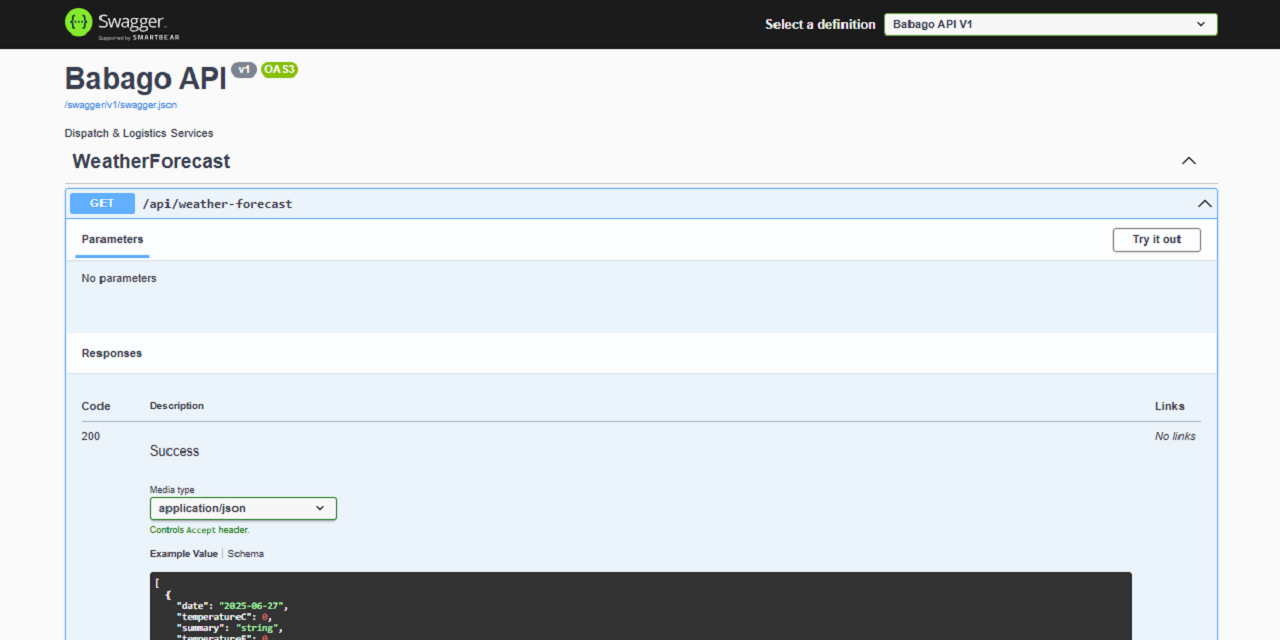
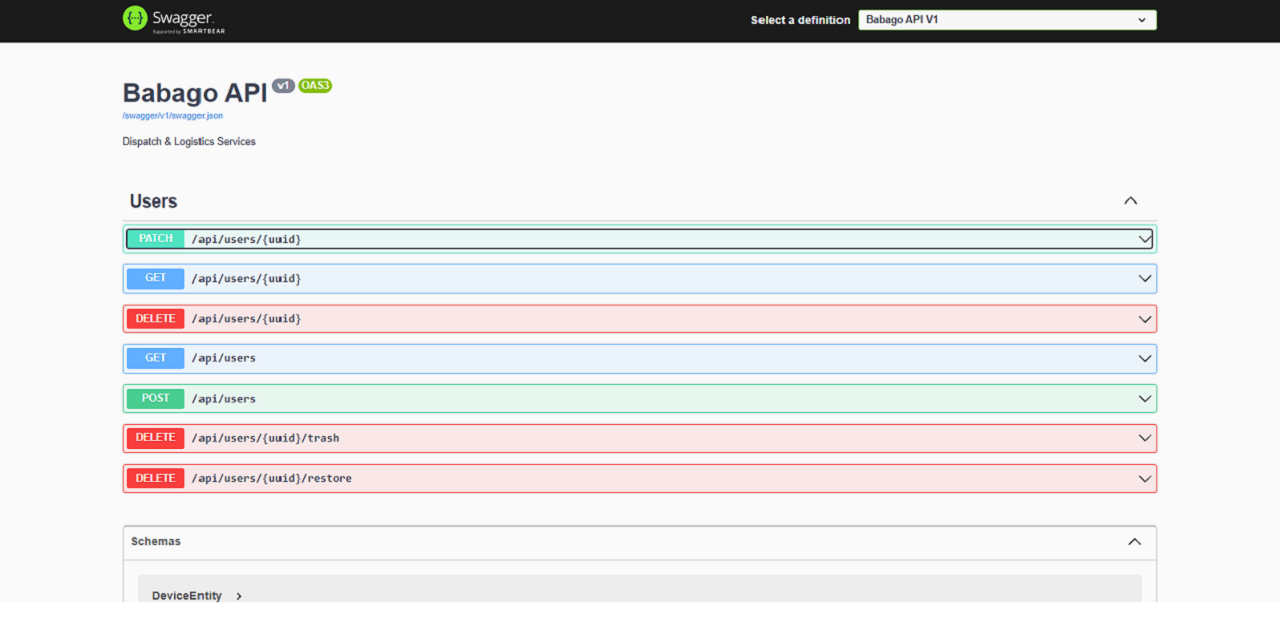
feat(extensions): update controller naming convention

Changed region(s): [[0.0, 0.0, 1.0, 1.0], [0.875, 0.8125, 0.9062, 0.8438]]

diff --git a/Extensions/AddCustomControllersExtension.cs b/Extensions/AddCustomControllersExtension.cs
@@ -11,6 +11,7 @@ namespace Ctor.Extensions
             services.AddControllers(options =>
             {
                 options.Conventions.Insert(0, new RoutePrefixConvention("api")); // Global route prefix
+                options.Conventions.Add(new ControllerNamingConvention());
             })
             .AddJsonOptions(options =>
             {
@@ -19,34 +20,60 @@ namespace Ctor.Extensions
 
             return services;
         }
+    }
 
-        // Inner class used as a convention to apply a global route prefix
-        private class RoutePrefixConvention : IApplicationModelConvention
+    // Apply a global route prefix
+    public class RoutePrefixConvention : IApplicationModelConvention
+    {
+        private readonly AttributeRouteModel _routePrefix;
+
+        public RoutePrefixConvention(string prefix)
         {
-            private readonly AttributeRouteModel _routePrefix;
+            _routePrefix = new AttributeRouteModel(new RouteAttribute(prefix));
+        }
 
-            public RoutePrefixConvention(string prefix)
+        public void Apply(ApplicationModel application)
+        {
+            foreach (var controller in application.Controllers)
             {
-                _routePrefix = new AttributeRouteModel(new RouteAttribute(prefix));
-            }
-
-            public void Apply(ApplicationModel application)
-            {
-                foreach (var controller in application.Controllers)
+                foreach (var selector in controller.Selectors)
                 {
-                    foreach (var selector in controller.Selectors)
+                    if (selector.AttributeRouteModel != null)
                     {
-                        if (selector.AttributeRouteModel != null)
-                        {
-                            selector.AttributeRouteModel = AttributeRouteModel.CombineAttributeRouteModel(_routePrefix, selector.AttributeRouteModel);
-                        }
-                        else
-                        {
-                            selector.AttributeRouteModel = _routePrefix;
-                        }
+                        selector.AttributeRouteModel = AttributeRouteModel.CombineAttributeRouteModel(_routePrefix, selector.AttributeRouteModel);
+                    }
+                    else
+                    {
+                        selector.AttributeRouteModel = _routePrefix;
                     }
                 }
             }
+        }
+    }
+
+    // Rewrite [controller] token to kebab-case:
+    public class ControllerNamingConvention : IApplicationModelConvention
+    {
+        public void Apply(ApplicationModel application)
+        {
+            foreach (var controller in application.Controllers)
+            {
+                foreach (var selector in controller.Selectors)
+                {
+                    if (selector.AttributeRouteModel?.Template?.Contains("[controller]") == true)
+                    {
+                        var kebab = ToKebabCase(controller.ControllerName);
+                        selector.AttributeRouteModel.Template = selector.AttributeRouteModel.Template.Replace("[controller]", kebab);
+                    }
+                }
+            }
+        }
+
+        private string ToKebabCase(string value)
+        {
+            return string.Concat(
+                value.Select((x, i) => i > 0 && char.IsUpper(x) ? "-" + char.ToLower(x) : char.ToLower(x).ToString())
+            );
         }
     }
 }

diff --git a/Controllers/Controller.cs b/Controllers/Controller.cs
@@ -23,32 +23,23 @@ public abstract class Controller<T> : ControllerBase where T : Model
     return await _db.ToListAsync();
   }
 
-  [HttpGet("{id}")]
-  public virtual async Task<ActionResult<T>> GetById(string id)
+  [HttpGet("{uuid:guid}")]
+  public virtual async Task<ActionResult<T>> GetByUuId(Guid uuid)
   {
-    T? entity = null;
-
-    if (int.TryParse(id, out var intId))
-    {
-      entity = await _db.FirstOrDefaultAsync(e => EF.Property<int>(e, "Id") == intId);
-    }
-    else if (Guid.TryParse(id, out var guidId))
-    {
-      entity = await _db.FirstOrDefaultAsync(e => e.Uuid == guidId);
-    }
+    var entity = await _db.FirstOrDefaultAsync(e => e.Uuid == uuid);
 
     return entity is null ? NotFound() : Ok(entity);
   }
 
-  [HttpPost]
+  [HttpPost(Name = "Create")]
   public virtual async Task<ActionResult<T>> Create(T entity)
   {
     _db.Add(entity);
     await _context.SaveChangesAsync();
-    return CreatedAtAction(nameof(GetById), new { id = entity.Uuid }, entity);
+    return CreatedAtAction(nameof(GetByUuId), new { id = entity.Uuid }, entity);
   }
 
-  [HttpPatch("{uuid}/trash")]
+  [HttpDelete("{uuid:guid}/trash")]
   public virtual async Task<IActionResult> Trash(Guid uuid)
   {
     var entity = await _db.FirstOrDefaultAsync(e => e.Uuid == uuid);
@@ -59,7 +50,7 @@ public abstract class Controller<T> : ControllerBase where T : Model
     return NoContent();
   }
 
-  [HttpPatch("{uuid}/restore")]
+  [HttpDelete("{uuid:guid}/restore")]
   public virtual async Task<IActionResult> Restore(Guid uuid)
   {
     var entity = await _db
@@ -73,7 +64,7 @@ public abstract class Controller<T> : ControllerBase where T : Model
     return NoContent();
   }
 
-  [HttpDelete("{uuid}")]
+  [HttpDelete("{uuid:guid}")]
   public virtual async Task<IActionResult> Delete(Guid uuid)
   {
     var entity = await _db

diff --git a/Extensions/AddSwaggerDocumentationExtension.cs b/Extensions/AddSwaggerDocumentationExtension.cs
@@ -20,5 +20,17 @@ namespace Ctor.Extensions
 
             return services;
         }
+
+        public static IApplicationBuilder UseSwaggerDocumentation(this IApplicationBuilder app)
+        {
+            app.UseSwagger(); // Serves swagger.json
+
+            app.UseSwaggerUI(c =>
+            {
+                c.SwaggerEndpoint("/swagger/v1/swagger.json", "Babago API V1"); // UI page
+            });
+
+            return app;
+        }
     }
 }

diff --git a/Program.cs b/Program.cs
@@ -16,13 +16,8 @@ if (app.Environment.IsDevelopment())
     app.MapOpenApi();
 }
 
-// Enables middleware to serve Swagger JSON
-app.UseSwagger(); 
-app.UseSwaggerUI(c =>
-{
-    // Adds Swagger UI page
-    c.SwaggerEndpoint("/swagger/v1/swagger.json", "Babago API V1");
-});
+// Apply swagger ui middleware
+app.UseSwaggerDocumentation();
 
 // Forces HTTPS for all requests
 app.UseHttpsRedirection(); 

diff --git a/Controllers/UsersController.cs b/Controllers/UsersController.cs
@@ -16,7 +16,7 @@ public class UsersController : Controller<User>
         _context = context;
     }
 
-    // PATCH: api/users/{uuid}
+    // PATCH: users/{uuid}
     [HttpPatch("{uuid}")]
     public async Task<IActionResult> Update(Guid uuid, [FromBody] UpdateUserDto patchData)
     {
